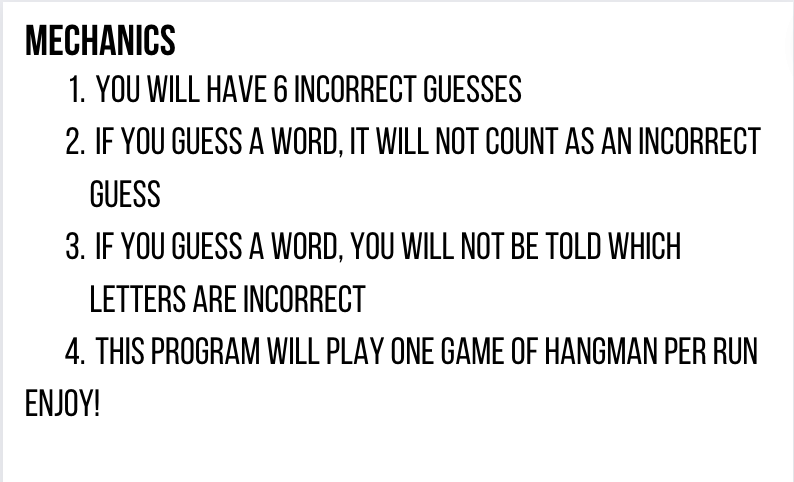
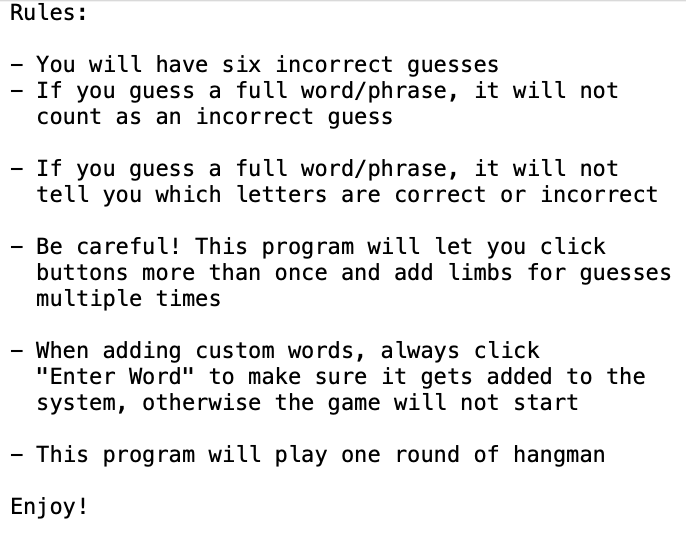
adding a randomize feature to the custom words allowing the user to play with the word they just entered updating the rules

diff --git a/src/CustomWords.java b/src/CustomWords.java
@@ -6,6 +6,7 @@ import java.io.*;
 import java.util.ArrayList;
 
 public class CustomWords {
+    private String word;
     private String filename;
 
     public CustomWords() {
@@ -23,7 +24,7 @@ public class CustomWords {
             System.exit(-1);
         }
 
-        PrintWriter writer = null;
+        PrintWriter writer;
         try {
             writer = new PrintWriter(new FileOutputStream(new File("./categories/custom.txt").getAbsolutePath(), true));
             writer.println(word);
@@ -46,16 +47,19 @@ public class CustomWords {
         customPanel.setBorder(BorderFactory.createEmptyBorder(10, 10, 10, 10));
         customFrame.getContentPane().add(customPanel);
 
-        JLabel customLabel = new JLabel("Enter a word to add: ");
+        JLabel customLabel = new JLabel("Enter a word to add and press \"Enter Word\": ");
         JTextField customField = new JTextField();
         JButton okButton = new JButton("Enter Word");
         okButton.addActionListener(new CustomWordsListener(this, customField));
-        JButton playGameButton = new JButton("Play Game");
+        JButton randomizeButton = new JButton("Randomize Custom Words!");
+        randomizeButton.addActionListener(new ButtonListener("custom.txt"));
+        JButton playGameButton = new JButton("Play Game with Word!");
         playGameButton.addActionListener(new ButtonListener("custom.txt"));
 
         customPanel.add(customLabel);
         customPanel.add(customField);
         customPanel.add(okButton);
+        customPanel.add(randomizeButton);
         customPanel.add(playGameButton);
 
         customFrame.add(customPanel);
@@ -74,12 +78,10 @@ class CustomWordsListener implements ActionListener {
         this.customField = customField;
         this.customWordObject = customWordObject;
     }
-
     // performs this code when the OK JButton is clicked
     @Override
     public void actionPerformed(ActionEvent e) {
-        String customWord = null;
-
+        String customWord;
         try {
             customWord = customField.getText();
             customWordObject.customAddWord(customWord);

diff --git a/src/Main.java b/src/Main.java
@@ -20,13 +20,17 @@ class ButtonListener implements ActionListener{
     // performs this code when the category JButton is selected
     @Override
     public void actionPerformed(ActionEvent e){
-
+        String targetWord;
         // creates a Categories object; parameter: String of the selected category filename
         Categories c = new Categories(filename);
-
-        // uses Categories method getWord to randomly selected a targetword; stores this targetword as a String
-        String targetWord = c.getWord();
-
+        String source = (e.getSource()).toString();
+        if(filename.contains("custom") && source.contains("Play Game with Word!")){
+            // uses Categories method getCustomWord to get the most recent addition to custom.txt; stores this targetword as a String
+            targetWord = c.getCustomWord();
+        } else {
+            // uses Categories method getWord to randomly select a targetword; stores this targetword as a String
+            targetWord = c.getWord();
+        }
         // JFrame display for the Hangman Game
         JFrame game = new JFrame("Hangman Game");
         game.setDefaultCloseOperation(JFrame.EXIT_ON_CLOSE);

diff --git a/src/Categories.java b/src/Categories.java
@@ -40,5 +40,11 @@ public class Categories {
 
         return targetWord;
     }
+    public String getCustomWord(){
+        int index = (wordList.size())-1;
+        String targetWord = wordList.get(index);
+
+        return targetWord;
+    }
 }
 
